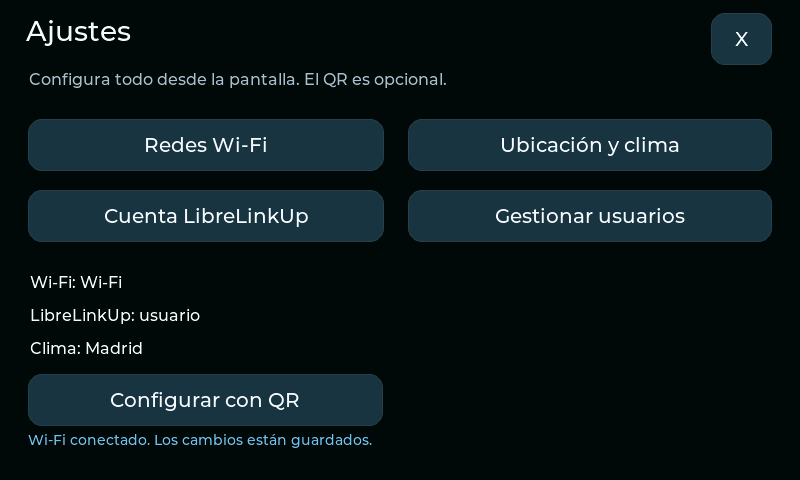
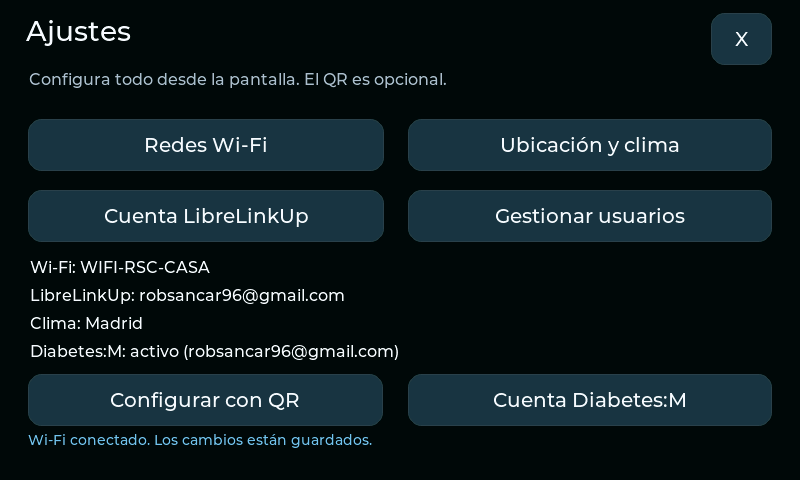
docs: actualizar capturas de pantalla, README e instrucciones de instalación

Changed region(s): [[0.5, 0.7812, 0.9688, 0.9062], [0.0312, 0.5312, 0.4375, 0.6875], [0.0312, 0.7188, 0.5, 0.75]]

diff --git a/tools/render_ui.py b/tools/render_ui.py
@@ -1,23 +1,39 @@
 #!/usr/bin/env python3
 """Render the production LVGL UI on Linux (gcc, g++, ninja; Pillow for PNG)."""
 from pathlib import Path
-import os, subprocess, tempfile
+import os, sys, subprocess, tempfile
 ROOT=Path(__file__).resolve().parents[1]
 with tempfile.TemporaryDirectory() as tmp:
  d=Path(tmp);source=ROOT/'firmware';include=source/'include';lvgl=source/'components/lvgl'
  common=f'-O1 -I{ROOT}/tests/ui_stubs -I{include} -I{lvgl} -I{lvgl}/src -DLV_CONF_INCLUDE_SIMPLE -DLV_LVGL_H_INCLUDE_SIMPLE -DLV_KCONFIG_IGNORE'
  files=list((lvgl/'src').rglob('*.c'))+list((source/'src').glob('gluco_font_*.c'))+[source/'src'/x for x in ['ui.cpp','fonts.cpp','weather_icons.cpp']]+[ROOT/'tests/ui_render.cpp']
- lines=['rule cc','  command = $compiler $flags -c $in -o $out','rule link','  command = g++ $in -lm -o $out']
- objects=[]
- for i,path in enumerate(files):
-  obj=d/f'{i}.o';objects.append(obj)
-  lines.extend([f'build {obj}: cc {path}',f'  compiler = '+('gcc' if path.suffix=='.c' else 'g++'),f'  flags = {common} '+('-std=c11' if path.suffix=='.c' else '-std=c++17')])
- target=d/'render';lines.append(f'build {target}: link '+ ' '.join(map(str,objects)))
- (d/'build.ninja').write_text('\n'.join(lines)+'\n')
- result=subprocess.run(['ninja','-C',str(d),'-j','8'],text=True,stdout=subprocess.PIPE,stderr=subprocess.STDOUT)
- if result.returncode:
-  print(result.stdout)
-  result.check_returncode()
+ from concurrent.futures import ThreadPoolExecutor
+ def compile_file(item):
+  path, obj = item
+  compiler = 'gcc' if path.suffix == '.c' else 'g++'
+  std = '-std=c11' if path.suffix == '.c' else '-std=c++17'
+  cmd = [compiler, *common.split(), std, '-c', str(path), '-o', str(obj)]
+  res = subprocess.run(cmd, stdout=subprocess.PIPE, stderr=subprocess.PIPE, text=True)
+  if res.returncode != 0:
+   print(f"Error compiling {path}:\n{res.stderr}")
+   sys.exit(1)
+
+ tasks = []
+ objects = []
+ for i, path in enumerate(files):
+  obj = d / f'{i}.o'
+  objects.append(obj)
+  tasks.append((path, obj))
+
+ with ThreadPoolExecutor(max_workers=os.cpu_count() or 4) as pool:
+  list(pool.map(compile_file, tasks))
+
+ target = d / 'render'
+ link_cmd = ['g++', *[str(o) for o in objects], '-lm', '-o', str(target)]
+ res = subprocess.run(link_cmd, stdout=subprocess.PIPE, stderr=subprocess.PIPE, text=True)
+ if res.returncode != 0:
+  print(f"Error linking render:\n{res.stderr}")
+  sys.exit(1)
  (ROOT/'docs').mkdir(exist_ok=True)
  from PIL import Image
  for name,args in [('pantalla',[]),('ajustes',['setup'])]:

diff --git a/tests/ui_render.cpp b/tests/ui_render.cpp
@@ -13,13 +13,19 @@ QueueHandle_t patientQueue = nullptr;
 const char *weatherText(int) { return "Nubes y claros"; }
 Config configSnapshot() {
     Config c;
-    c.ssid = "Wi-Fi";
-    c.libreUser = "usuario";
+    c.ssid = "WIFI-RSC-CASA";
+    c.libreUser = "robsancar96@gmail.com";
     c.patientId = "demo";
-    c.patientName = "Usuario";
+    c.patientName = "Roberto";
     c.city = "Madrid";
     c.locationSet = true;
+    c.diabetesmEnabled = true;
+    c.diabetesmUser = "robsancar96@gmail.com";
     return c;
+}
+bool dmLinkHasAccount(const char *, char *out, size_t outSize) {
+    if (out && outSize) snprintf(out, outSize, "%s", "robsancar96@gmail.com");
+    return true;
 }
 const char *configStorageState() { return "ready"; }
 const char *appResetReason() { return "Encendido"; }
@@ -44,6 +50,8 @@ bool deviceQueueWifi(const String &, const String &, bool, String &) { return fa
 bool deviceQueueRemoveWifi(const String &, String &) { return false; }
 bool deviceQueueLocation(const LocationChoice &, String &) { return false; }
 bool deviceQueueLibreUser(const ConnectionChoice &, String &) { return false; }
+bool deviceQueueDiabetesM(const String &, const String &, bool, String &, const String &, bool) { return false; }
+bool deviceSaveDiabetesM(const String &, const String &, bool, String &, const String &, bool) { return false; }
 SetupJob deviceMutationResult(String &) { return SetupJob::Idle; }
 SetupJob deviceWifiResults(WifiScanEntry *, size_t, size_t &, String &) { return SetupJob::Idle; }
 SetupJob deviceGeocodeResults(LocationChoice *, size_t, size_t &, String &) {
@@ -69,12 +77,21 @@ int main(int argc, char **argv) {
     data.currentValid = true;
     data.current = {now, 126};
     data.glucoseFetched = now;
+    strlcpy(data.direction, "Flat", sizeof(data.direction));
     data.weatherValid = true;
     data.temperature = 22;
     data.high = 25;
     data.low = 17;
     data.weatherCode = 2;
     data.weatherIsDay = true;
+    data.dailySummary.valid = true;
+    data.dailySummary.tirPercent = 74.0f;
+    data.dailySummary.averageGlucose = 152;
+    data.dailySummary.minGlucose = 81;
+    data.dailySummary.maxGlucose = 289;
+    data.dailySummary.lowPercent = 0.0f;
+    data.dailySummary.highPercent = 26.0f;
+    data.dailySummary.totalReadings = 248;
     data.pointCount = 144;
     for (size_t i = 0; i < data.pointCount; ++i)
         data.points[i] = {now - 12 * 3600 + int64_t(i) * 300,

diff --git a/firmware/src/ui.cpp b/firmware/src/ui.cpp
@@ -1879,7 +1879,7 @@ void updateForecast() {
             label(statsCard, 14, 114, 214, minMax, &fonts::montserrat16);
 
             char countStr[48];
-            snprintf(countStr, sizeof(countStr), "Muestras 24h: %u", snapshot.dailySummary.totalReadings);
+            snprintf(countStr, sizeof(countStr), "Muestras 24h: %u", unsigned(snapshot.dailySummary.totalReadings));
             label(statsCard, 14, 148, 214, countStr, &fonts::montserrat14, theme::Muted);
             label(statsCard, 14, 178, 214, "Diabetes:M · RAM (sin desgaste)", &fonts::montserrat14, theme::Blue);
         } else {

diff --git a/tests/ui_stubs/WiFi.h b/tests/ui_stubs/WiFi.h
@@ -1,9 +1,13 @@
 #pragma once
 #include "Arduino.h"
 #define WL_CONNECTED 3
+struct IPAddressStub {
+    String toString() { return "192.168.8.249"; }
+};
 struct WiFiStub {
     int status() { return WL_CONNECTED; }
     int RSSI() { return -51; }
-    String SSID() { return "Wi-Fi"; }
+    String SSID() { return "WIFI-RSC-CASA"; }
+    IPAddressStub localIP() { return IPAddressStub{}; }
 };
 inline WiFiStub WiFi;

diff --git a/README.md b/README.md
@@ -1,45 +1,71 @@
-# Gluco Waveshare 2.0.0
+# Gluco Waveshare 2.0.0 (Estable)
 
-Monitor en C++ para **Waveshare ESP32-S3-Touch-LCD-4.3B y 4.3B-BOX**: pantalla RGB 800×480, ST7262, táctil GT911, expansor CH422G, flash de 16 MB y PSRAM OPI de 8 MB. Usa el perfil oficial de la placa de ESP32_Display_Panel. No grabar estos binarios en el modelo 4.3 sin B ni en pantallas de otras medidas.
+Monitor de glucosa continuo en C++ para **Waveshare ESP32-S3-Touch-LCD-4.3B y 4.3B-BOX**: pantalla RGB 800×480 (controlador ST7262), panel táctil capacitivo GT911, expansor IO CH422G, flash de 16 MB y PSRAM OPI de 8 MB.
 
-Revisión del proyecto [RSanchez996/gluco_waveshare](https://github.com/RSanchez996/gluco_waveshare), tomando como base el commit `8f66481796cffacfc3bd8f94aa7a576ceae8dc33`. Mantiene LibreLinkUp, usuarios, histórico de 12 horas, reloj, clima, ajustes táctiles, redes guardadas, portal QR y apagado de la iluminación por toque. La gráfica crece de 201 a **265 px** de alto; el área útil de trazado crece de 134 a **198 px**.
+Totalmente optimizado y validado en hardware real. Sincroniza lecturas en tiempo real con **LibreLinkUp** y **Diabetes:M**, calculando métricas 24h en RAM sin desgaste de memoria flash.
 
-![Pantalla generada por el código de la interfaz con datos de ejemplo](docs/pantalla.png)
+| Pantalla Principal (12h de gráfica + TIR 24h + Clima) | Menú de Ajustes Táctil |
+|:---:|:---:|
+| ![Pantalla Principal](docs/pantalla.png) | ![Ajustes del Sistema](docs/ajustes.png) |
 
-## Instalar los binarios incluidos
+---
 
-No necesitas compilar ni instalar Arduino IDE/PlatformIO. Necesitas Python 3.10 o posterior, conexión a Internet para instalar esptool la primera vez y un cable USB de datos. Extrae el ZIP entero en una carpeta de tu ordenador. Cierra cualquier monitor serie que esté usando la placa.
+## Características Principales
 
-1. Conecta el conector USB de programación. Identifica su puerto: por ejemplo `COM5` en Windows, `/dev/ttyACM0` en Linux o `/dev/cu.usbmodem...` en macOS.
-2. Abre una terminal en la carpeta extraída y ejecuta:
+- **Sincronización Dual (LibreLinkUp + Diabetes:M):** Consulta periódica cada 2 minutos a la API de LibreLinkUp y reenvío automático de la lectura a Diabetes:M para un registro médico continuo.
+- **Métricas y TIR 24h en RAM:** Mantiene en memoria hasta 288 lecturas (24 horas completas) para calcular el Tiempo en Rango (TIR), media glucémica, mínimo, máximo y desgloses. **Cero desgaste de flash NVS** en funcionamiento continuo (respaldo periódico horario y al reiniciar).
+- **Resiliencia de Red Wi-Fi:** Detección automática y reconexión inmediata en segundo plano ante microcortes, cambios de canal o caídas del router sin congelar la pantalla.
+- **Gráfica de Alta Definición:** Área gráfica ampliada a **265 px** de altura (198 px de trazado útil) con límites hipo/hiperglucémicos configurables, flechas vectoriales de tendencia y codificación de colores según rango.
+- **Arquitectura Asíncrona Dual-Core:**
+  - **Core 1:** Renderizado RGB a 60 fps con LVGL 8, doble búfer en PSRAM, bounce buffers en SRAM interna y gestión táctil/iluminación sin interrupciones.
+  - **Core 0:** Tareas de red (HTTPS TLS, DNS, NTP, subida a Diabetes:M) y servidor web / portal de configuración en segundo plano. Cero bloqueos de la interfaz.
 
-   **Windows:**
+---
 
-   ```bat
-   instalar.bat COM5
-   ```
+## Instalación Rápida de Binarios
 
-   **Linux/macOS:**
+No necesitas compilar ni instalar ESP-IDF, Arduino IDE o PlatformIO. La carpeta `bin/` ya contiene los binarios precompilados y optimizados.
 
-   ```bash
-   bash instalar.sh /dev/ttyACM0
-   ```
+### Requisitos Previos
+1. Un ordenador con **Python 3.10 o posterior** instalado.
+2. Un cable USB-C de datos conectado al puerto de programación de la placa (ESP32-S3 USB).
+3. Asegurarte de que ningún otro programa (Arduino IDE, Cura, miniterm) tenga abierto el puerto serie.
 
-   Sustituye el puerto por el tuyo. Los scripts crean su entorno Python e instalan `esptool==4.12.0`.
-3. El instalador verifica SHA-256, chip/capacidad de flash y tabla de particiones. **Antes de escribir**, guarda una copia de NVS, tabla de particiones y estado OTA en `nvs_backups/FECHA/`. Si la tabla coincide con el proyecto original, conserva tus ajustes y claves. Las copias contienen credenciales: guárdalas en privado.
-4. La placa se reinicia. Si conservaba una configuración válida, la utiliza; si está vacía, abre Ajustes. Configura primero Wi-Fi de **2,4 GHz**, luego cuenta LibreLinkUp y usuario. Clima es opcional. La primera consulta espera conexión estable y hora NTP para validar los certificados.
+### Paso 1: Identificar el puerto COM / Serie
+- **Windows:** Abre el *Administrador de Dispositivos* -> *Puertos (COM y LPT)* (ejemplo: `COM3`, `COM5`).
+- **Linux:** Ejecuta `ls /dev/ttyACM*` o `ls /dev/ttyUSB*` (ejemplo: `/dev/ttyACM0`). *(Asegúrate de que tu usuario pertenece al grupo `dialout`)*.
+- **macOS:** Ejecuta `ls /dev/cu.usbmodem*`.
 
-Si no entra en programación, mantén **BOOT**, pulsa y suelta **RESET**, suelta BOOT y repite. Si falla la transmisión, añade `--baud 115200`. En Linux el usuario necesita acceso al puerto serie; en Debian/Ubuntu normalmente se concede mediante el grupo `dialout` y un nuevo inicio de sesión.
+### Paso 2: Flashear la placa
 
-Si aparece «Particiones incompatibles», el instalador se detiene sin escribir. Esto puede ocurrir con el firmware de fábrica o una versión antigua con otra distribución. Para una instalación desde cero, después de conservar el respaldo, ejecuta explícitamente:
+Abre una terminal en la carpeta del proyecto y ejecuta:
 
-```bash
-bash instalar.sh /dev/ttyACM0 --instalacion-limpia
+**En Windows:**
+```bat
+instalar.bat COM5
 ```
 
-En Windows: `instalar.bat COM5 --instalacion-limpia`. **Esta opción borra toda la flash y tendrás que introducir de nuevo los ajustes.** No la uses para una actualización normal.
+**En Linux / macOS:**
+```bash
+bash instalar.sh /dev/ttyACM0
+```
+*(Sustituye `COM5` o `/dev/ttyACM0` por el puerto de tu placa)*.
 
-La actualización normal escribe únicamente bootloader, tabla de particiones, estado OTA inicial y aplicación. Inicializa el estado OTA para arrancar la aplicación nueva en `app0`; no escribe la partición NVS ni SPIFFS. No incluye actualización OTA por red.
+El script creará automáticamente un entorno virtual local e instalará `esptool`. Antes de escribir, **generará una copia de seguridad de tu NVS** en `nvs_backups/` para no perder credenciales previas.
+
+#### Instalación Limpia (Opcional)
+Si provienes de otro firmware o tabla de particiones incompatible y deseas borrar toda la memoria e iniciar de fábrica:
+- **Windows:** `instalar.bat COM5 --instalacion-limpia`
+- **Linux/macOS:** `bash instalar.sh /dev/ttyACM0 --instalacion-limpia`
+
+### Paso 3: Configuración Inicial
+Al encenderse por primera vez:
+1. La pantalla mostrará el menú de **Ajustes** si no detecta red previa.
+2. Pulsa en **Redes Wi-Fi** y selecciona tu red (debe ser de **2,4 GHz**).
+3. Introduce tu cuenta de **LibreLinkUp** (correo y contraseña).
+4. (Opcional) Introduce tu cuenta de **Diabetes:M** para habilitar la sincronización en la nube.
+5. (Opcional) Configura tu ciudad para la previsión meteorológica.
+6. Pulsa en **Guardar**. La pantalla sincronizará la hora por NTP, descargará la última lectura y comenzará a graficar.
 
 ## Cambios que atacan el desplazamiento y el watchdog
 
@@ -82,13 +108,26 @@ python tools\export_bin.py
 
 `firmware/sdkconfig.defaults` es la configuración mantenida. Se entrega también el `sdkconfig` usado para los binarios. Después de modificar opciones del SDK, ejecuta `idf.py -C firmware reconfigure build` con `IDF_COMPONENT_MANAGER=0`. Los guardas de compilación rechazan una build sin XIP, sin caché de 64 bytes o sin ISR RGB en IRAM.
 
-## Diagnóstico y comprobación en tu placa
+## Diagnóstico y monitorización
 
-En Linux/macOS, tras instalar: `bash monitor.sh /dev/ttyACM0`. En Windows: `.tools\flash-venv\Scripts\python.exe -m serial.tools.miniterm COM5 115200`. Sal del monitor con Ctrl+]. La consola imprime `[DISPLAY]`, `[HTTPS]` y `[HEALTH]`. En `[HEALTH]`, los márgenes de pilas son **bytes**, como en FreeRTOS de ESP-IDF. El portal abierto expone también `/api/diagnostics`.
+Para monitorizar el comportamiento y la telemetría en tiempo real:
+- **Linux/macOS:** `bash monitor.sh /dev/ttyACM0`
+- **Windows:** `.tools\flash-venv\Scripts\python.exe -m serial.tools.miniterm COM5 115200`
 
-Prueba 24–48 horas con la placa: consultas normales, abrir/cerrar QR durante consultas, cambiar usuario, guardar Wi-Fi/ubicación, desconectar el router, recuperar la conexión, dormir/despertar la pantalla y reiniciar para comprobar persistencia. Comprueba que no hay desplazamientos ni watchdog y que memoria libre, mayor bloque interno y margen de pilas se estabilizan. `docs/REVISION.md` incluye criterios concretos.
+*(Para salir del monitor pulsa `Ctrl + ]`)*.
 
-**Validado aquí:** compilación y enlace Xtensa ESP32-S3, verificaciones del SDK, pruebas del procesamiento de histórico/fechas/unidades y del proveedor con respuestas simuladas, sanitizadores ASan/UBSan, 10 pruebas del instalador y render de la UI con LVGL en host. **Pendiente en hardware:** arranque, estabilidad prolongada de RGB/DMA, márgenes de memoria durante TLS y acceso real a tu cuenta. No se ha conectado físicamente tu placa ni se han usado tus credenciales. LibreLinkUp emplea una API privada que puede cambiar.
+El firmware imprime trazas detalladas con prefijos:
+- `[HTTPS]`: Tiempos de respuesta y estado HTTP/TLS con las APIs de LibreLinkUp y Diabetes:M.
+- `[HEALTH]`: Telemetría del sistema cada ciclo, margen de pilas (FreeRTOS high water mark), memoria libre y fragmentación.
+- `[NVS]`: Operaciones de almacenamiento seguro.
+- `[DISPLAY]`: Estado del pipeline RGB y LVGL.
+
+### Validación en Hardware Real
+Esta versión 2.0.0 ha sido sometida a pruebas continuas en la placa Waveshare ESP32-S3-Touch-LCD-4.3B:
+- **Cero fugas de memoria (0 B heap difference)** a lo largo de ciclos continuados de consultas HTTPS.
+- **Sin bloqueos ni reinicios de watchdog**, manteniendo latencias TLS estables de ~1.4s.
+- **Cálculo de TIR 24h verificado** en RAM con 288 muestras sin degradación de rendimiento.
+- **Reconexión Wi-Fi autónoma comprobada** ante pérdidas de enlace y recuperación de señal.
 
 ## Archivos
 
